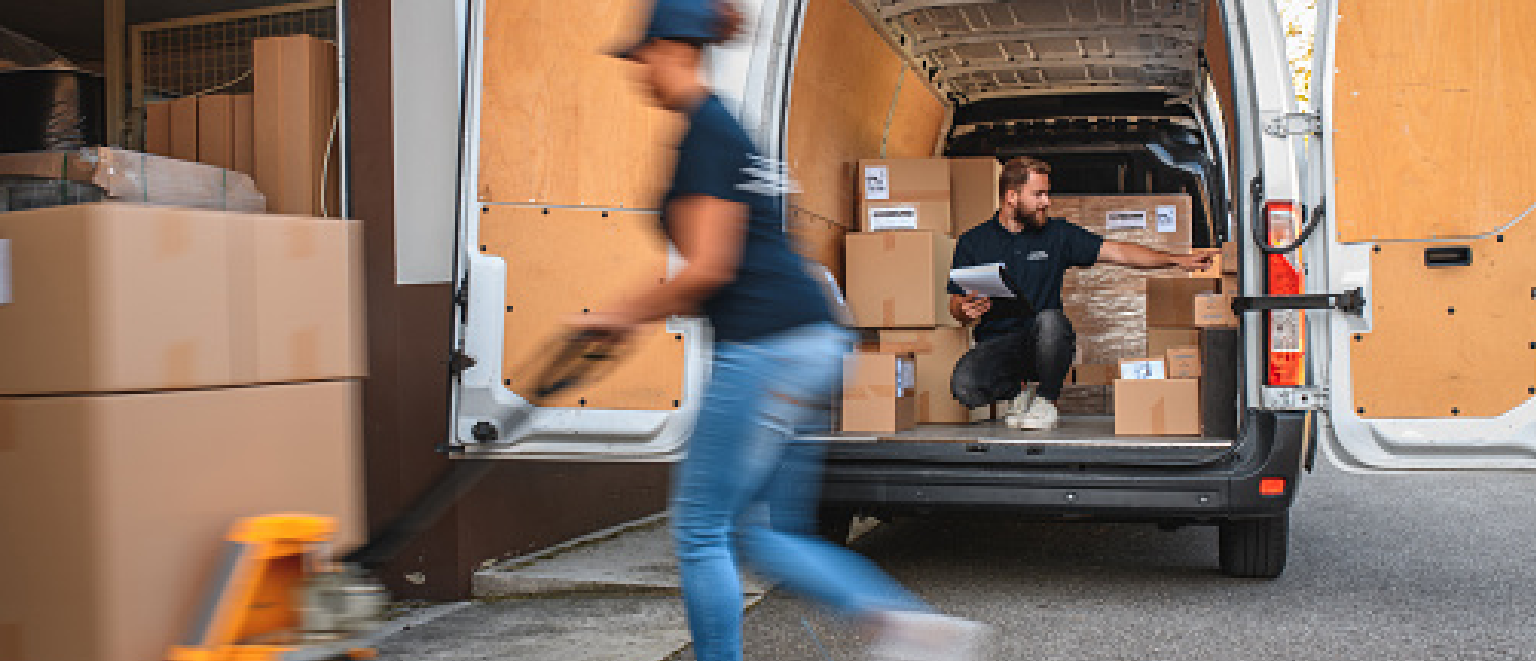
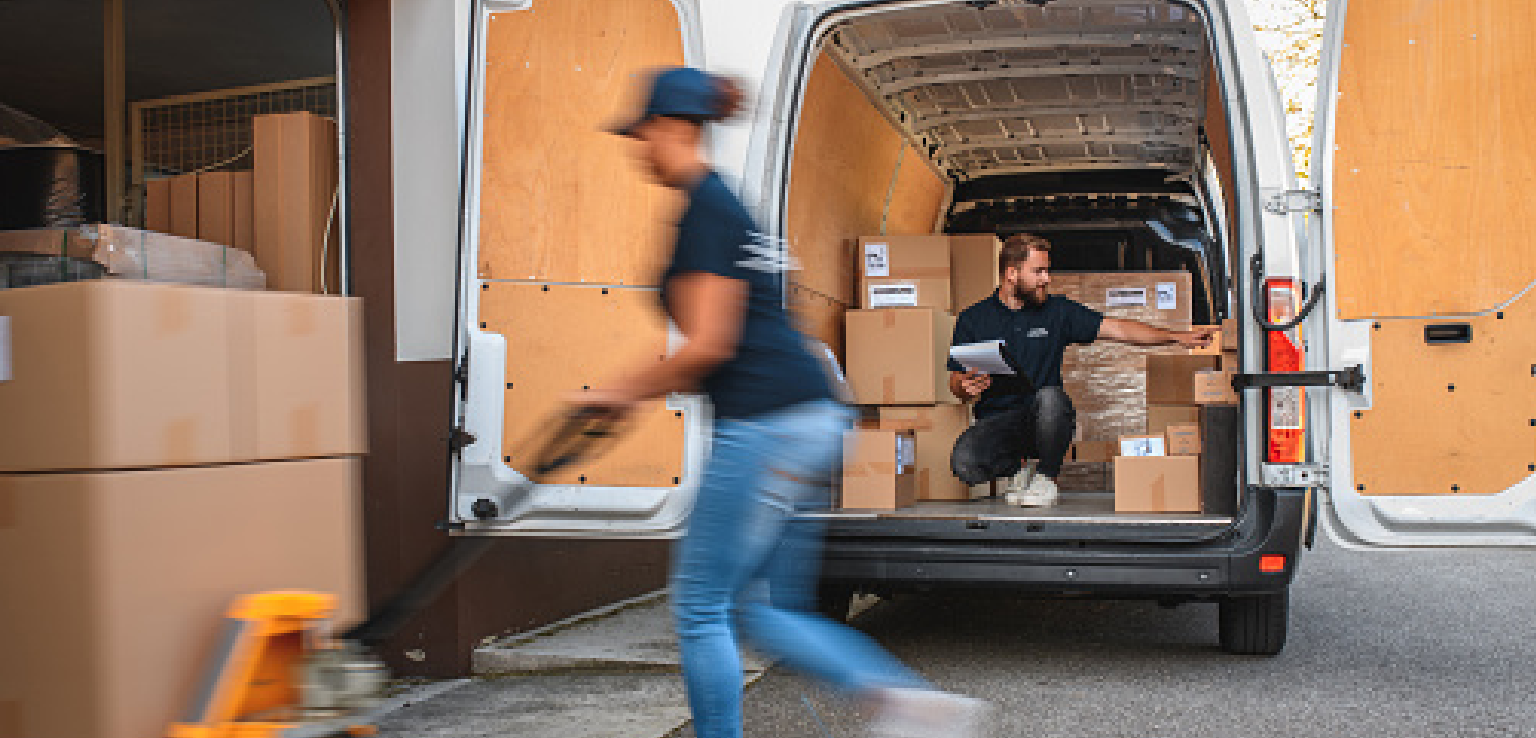
mobile menu slide effect

diff --git a/logistics-and-services.html b/logistics-and-services.html
@@ -8,11 +8,11 @@
   <title>Ship Supply</title>
 </head>
 <body>
-  <div class="d-flex bg-dark-blue p-2 justify-content-between align-items-center no-show-mobile">
+  <div class="d-flex bg-dark-blue p-2 justify-content-between align-items-center fixed-top no-show-mobile">
     <a href="/">
       <img class="p-2 ps-4" src="/resources/img/icons/dfs-logo.svg" alt="">
     </a>
-    <ul class="d-flex align-items-center list-unstyled p-3 m-0">
+    <ul class="d-flex align-items-center list-unstyled pe-3 m-0">
       <li class="p-2">
         <a class="text-white text-decoration-none" href="/ship-supply.html">Ship supply</a>
       </li>
@@ -22,12 +22,55 @@
       <li class="p-2">
         <a class="text-white text-decoration-none" href="">Partner solutions</a>
       </li>
+      <li class="ps-4">
+        <img src="/resources/img/icons/burger-menu.svg" alt="">
+      </li>
     </ul>
   </div>
   <div class="position-relative">
+    <div class="position-fixed mobile-menu-dfs no-show-desktop">
+      <div class="d-flex align-items-center justify-content-between p-3 bg-blue menu-content">
+        <h3 class="m-0">
+          <a class="text-white text-decoration-none" href="/ship-supply.html">Ship supply</a>
+        </h3>
+        <img src="/resources/img/icons/plus-expander.png" alt="">
+      </div>
+      <div class="d-flex menu-content align-items-center justify-content-between p-3 bg-green">
+        <h3 class="m-0">
+          <a class="text-white text-decoration-none" href="/ship-supply.html">Logistic and service</a>
+        </h3>
+        <img src="/resources/img/icons/plus-expander.png" alt="">
+      </div>
+      <div class="d-flex menu-content align-items-center justify-content-between p-3 bg-orange">
+        <h3 class="m-0">
+          <a class="text-white text-decoration-none" href="/ship-supply.html">Partner solutions</a>
+        </h3>
+        <img src="/resources/img/icons/plus-expander.png" alt="">
+      </div>
+      <div class="d-flex menu-content align-items-center p-3 bg-white border-bottom">
+        <p class="m-0">Product catalouge</p>
+        <img src="/resources/img/icons/plus-expander.png" alt="">
+      </div>
+      <div class="d-flex menu-content align-items-center p-3 bg-white border-bottom">
+        <p class="m-0">About us</p>
+        <img src="/resources/img/icons/plus-expander.png" alt="">
+      </div>
+      <div class="d-flex menu-content align-items-center p-3 bg-white border-bottom">
+        <p class="m-0">Contact</p>
+        <img src="/resources/img/icons/plus-expander.png" alt="">
+      </div>
+      <div class="d-flex menu-content align-items-center p-3 bg-white border-bottom">
+        <p class="m-0">Login</p>
+        <img src="/resources/img/icons/plus-expander.png" alt="">
+      </div>
+      <div class="d-flex menu-content align-items-center p-3 bg-white">
+        <p class="m-0 pe-1">shipshop.se</p>
+        <img src="/resources/img/icons/target-blank.png" alt="">
+      </div>
+    </div>
     <img class="vw-100" src="/resources/img/photos/logistics-hero.png" alt="">
     <img class="position-absolute link-ship" src="/resources/img/icons/green-white-link.png" alt="">
-    <img class="position-absolute burger-menu no-show-desktop" src="/resources/img/icons/burger-menu.svg" alt="">
+    <img class="position-fixed burger-menu no-show-desktop" src="/resources/img/icons/burger-menu.svg" alt="">
   </div>
   <div class="d-flex justify-content-evenly p-3">
     <ul class="list-unstyled no-show-mobile">
@@ -39,7 +82,7 @@
     <div class="shadow-sm p-5 mb-5 bg-white w-50 float-box">
       <h1>Duis aute irure dolor in 
         rep in voluptate esse.</h1>
-      <h4>Duis aute irure dolor in reprehenderit in voluptate velit esse cillum dolore eu fugiat nulla pariatur. Excepteur sint occaecat cupidatat non.</h4>
+      <h4 class="pb-4">Duis aute irure dolor in reprehenderit in voluptate velit esse cillum dolore eu fugiat nulla pariatur. Excepteur sint occaecat cupidatat non.</h4>
       <p>Excepteur sint occaecat cupidatat non proident, sunt in culpa qui officia deserunt mollit anim id est laborum. Duis aute irure dolor in reprehenderit in voluptate velit esse cillum dolore eu fugiat nulla pariatur. Excepteur sint occaecat cupidatat non proident, sunt in culpa qui officia deserunt mollit anim id est laborum. Duis aute irure dolor in reprehenderit in voluptate velit esse cillum dolore eu fugiat nulla pariatur. Excepteur sint occaecat cupidatat non proident, sunt in culpa qui officia deserunt mollit anim id est laborum.</p>
       <h3 class="text-blue-green">Mellanrubrik</h3>
       <p>Duis aute irure dolor in reprehenderit in voluptate velit esse cillum dolore eu fugiat nulla pariatur. Excepteur sint occaecat cupidatat non proident, sunt in culpa qui officia deserunt mollit anim id est laborum. Duis aute irure dolor in reprehenderit in voluptate velit esse cillum dolore eu fugiat nulla pariatur. Excepteur sint occaecat cupidatat non proident, sunt in culpa qui officia deserunt mollit anim id est laborum. Duis aute irure dolor in reprehenderit in voluptate velit esse cillum dolore eu fugiat nulla pariatur. Excepteur sint occaecat cupidatat non proident, sunt in culpa qui officia deserunt mollit anim id est laborum.</p>
@@ -118,5 +161,6 @@
   </div>
   <script src="https://cdn.jsdelivr.net/npm/bootstrap@5.0.2/dist/js/bootstrap.bundle.min.js" integrity="sha384-MrcW6ZMFYlzcLA8Nl+NtUVF0sA7MsXsP1UyJoMp4YLEuNSfAP+JcXn/tWtIaxVXM" crossorigin="anonymous">
   </script>
+  <script src="/resources/js/mobile-menu.js"></script>
 </body>
 </html>

diff --git a/ship-supply.html b/ship-supply.html
@@ -8,7 +8,7 @@
   <title>Ship Supply</title>
 </head>
 <body>
-  <div class="d-flex bg-dark-blue p-2 justify-content-between align-items-center no-show-mobile">
+  <div class="d-flex bg-dark-blue p-2 justify-content-between align-items-center fixed-top no-show-mobile">
     <a href="/">
       <img class="p-2 ps-4" src="/resources/img/icons/dfs-logo.svg" alt="">
     </a>
@@ -25,7 +25,7 @@
     </ul>
   </div>
   <div class="position-relative">
-    <img class="vw-100" src="/resources/img/photos/gettyimages-961031340-64e44b335dc3e.jpg" alt="">
+    <img class="vw-100" src="/resources/img/photos/ship-supply-hero.jpg" alt="">
     <img class="position-absolute link-ship" src="/resources/img/icons/link-ship.png" alt="">
     <img class="position-absolute burger-menu no-show-desktop" src="/resources/img/icons/burger-menu.svg" alt="">
   </div>
@@ -40,7 +40,7 @@
     <div class="shadow-sm p-5 mb-5 bg-white w-50 float-box">
       <h1>Duis aute irure dolor in 
         rep in voluptate esse.</h1>
-      <h4>Duis aute irure dolor in reprehenderit in voluptate velit esse cillum dolore eu fugiat nulla pariatur. Excepteur sint occaecat cupidatat non.</h4>
+      <h4 class="pb-4">Duis aute irure dolor in reprehenderit in voluptate velit esse cillum dolore eu fugiat nulla pariatur. Excepteur sint occaecat cupidatat non.</h4>
       <p>Excepteur sint occaecat cupidatat non proident, sunt in culpa qui officia deserunt mollit anim id est laborum. Duis aute irure dolor in reprehenderit in voluptate velit esse cillum dolore eu fugiat nulla pariatur. Excepteur sint occaecat cupidatat non proident, sunt in culpa qui officia deserunt mollit anim id est laborum. Duis aute irure dolor in reprehenderit in voluptate velit esse cillum dolore eu fugiat nulla pariatur. Excepteur sint occaecat cupidatat non proident, sunt in culpa qui officia deserunt mollit anim id est laborum.</p>
       <h3 class="text-blue-green">Mellanrubrik</h3>
       <p>Duis aute irure dolor in reprehenderit in voluptate velit esse cillum dolore eu fugiat nulla pariatur. Excepteur sint occaecat cupidatat non proident, sunt in culpa qui officia deserunt mollit anim id est laborum. Duis aute irure dolor in reprehenderit in voluptate velit esse cillum dolore eu fugiat nulla pariatur. Excepteur sint occaecat cupidatat non proident, sunt in culpa qui officia deserunt mollit anim id est laborum. Duis aute irure dolor in reprehenderit in voluptate velit esse cillum dolore eu fugiat nulla pariatur. Excepteur sint occaecat cupidatat non proident, sunt in culpa qui officia deserunt mollit anim id est laborum.</p>

diff --git a/resources/js/mobile-menu.js b/resources/js/mobile-menu.js
@@ -1,0 +1,41 @@
+const burgerButton = document.querySelector('.burger-menu')
+const burgerMenu = document.querySelector('.mobile-menu-dfs')
+const menuContents = document.querySelectorAll('.menu-content')
+
+let toggle = false
+
+burgerButton.addEventListener('click', () => {
+  toggle = !toggle
+  toggleMenu()
+})
+
+burgerMenu.style.width = "0px"
+burgerMenu.style.transition = "width 0.5s ease-out"
+
+menuContents.forEach((menuContent) => {
+  menuContent.style.visibility = 'hidden'
+})
+
+const toggleMenu = () => {
+  if(toggle) {
+    burgerMenu.style.top = "80px"
+    burgerMenu.style.right = "0px"
+    burgerMenu.style.width = "90vw"
+    burgerMenu.style.zIndex = "3"
+    burgerMenu.style.transition = "width 0.3s ease-out"
+
+    menuContents.forEach((menuContent) => {
+      menuContent.style.visibility = 'visible'
+      menuContent.style.transition = 'visibility 0.2s ease-out'
+    })
+
+  } else {
+    burgerMenu.style.width = '0px'
+    menuContents.forEach((menuContent) => {
+      menuContent.style.visibility = 'hidden'
+      menuContent.style.transition = 'visibility 0.2s ease-out'
+    });
+    burgerMenu.style.transition = "width 0.3s ease-out"
+
+  }
+}

diff --git a/resources/css/logistics-and-services.css b/resources/css/logistics-and-services.css
@@ -61,7 +61,6 @@ h3,
 h4,
 .dfs-h4 {
   font-size: 18px;
-  font-weight: bold;
   line-height: 1.15;
 }
 
@@ -207,8 +206,9 @@ h5,
   /* Custom CSS */
 
   .link-ship {
-    top: 21px;
+    top: 100px;
     left: 0;
+    width: 113px;
   }
 
   .overlap-h3 {
@@ -233,6 +233,11 @@ h5,
     display: none !important;
   }
 
+  /* .mobile-menu-dfs {
+    top: 100px;
+    left: 100px;
+  } */
+
 }
 
   /* Mobile settings */
@@ -247,7 +252,7 @@ h5,
         border-radius: 20px;
       }
       .link-ship {
-        top: 21px;
+        bottom: 21px;
         left: 0;
         width: 113px;
       }

diff --git a/resources/css/ship-supply.css b/resources/css/ship-supply.css
@@ -60,7 +60,6 @@ h3,
 h4,
 .dfs-h4 {
   font-size: 18px;
-  font-weight: bold;
   line-height: 1.15;
 }
 
@@ -196,7 +195,7 @@ h5,
   /* Custom CSS */
 
   .link-ship {
-    top: 21px;
+    top: 100px;
     left: 0;
   }
 
@@ -236,7 +235,7 @@ h5,
         border-radius: 20px;
       }
       .link-ship {
-        top: 21px;
+        bottom: 21px;
         left: 0;
       }
       .no-show-mobile {
